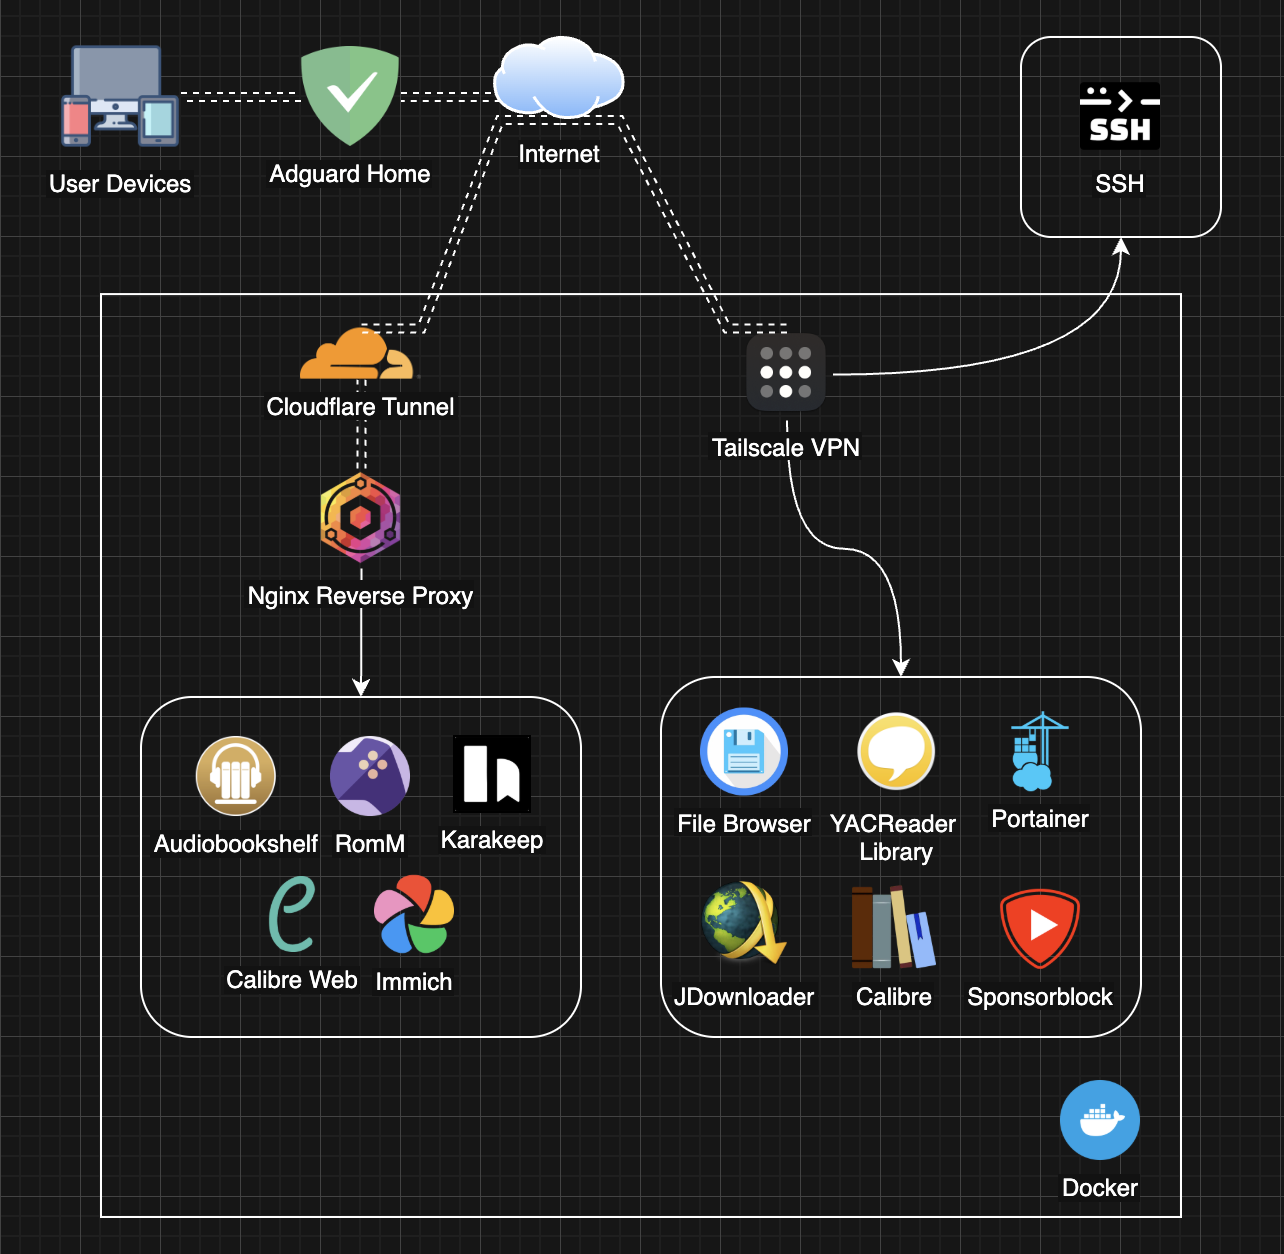
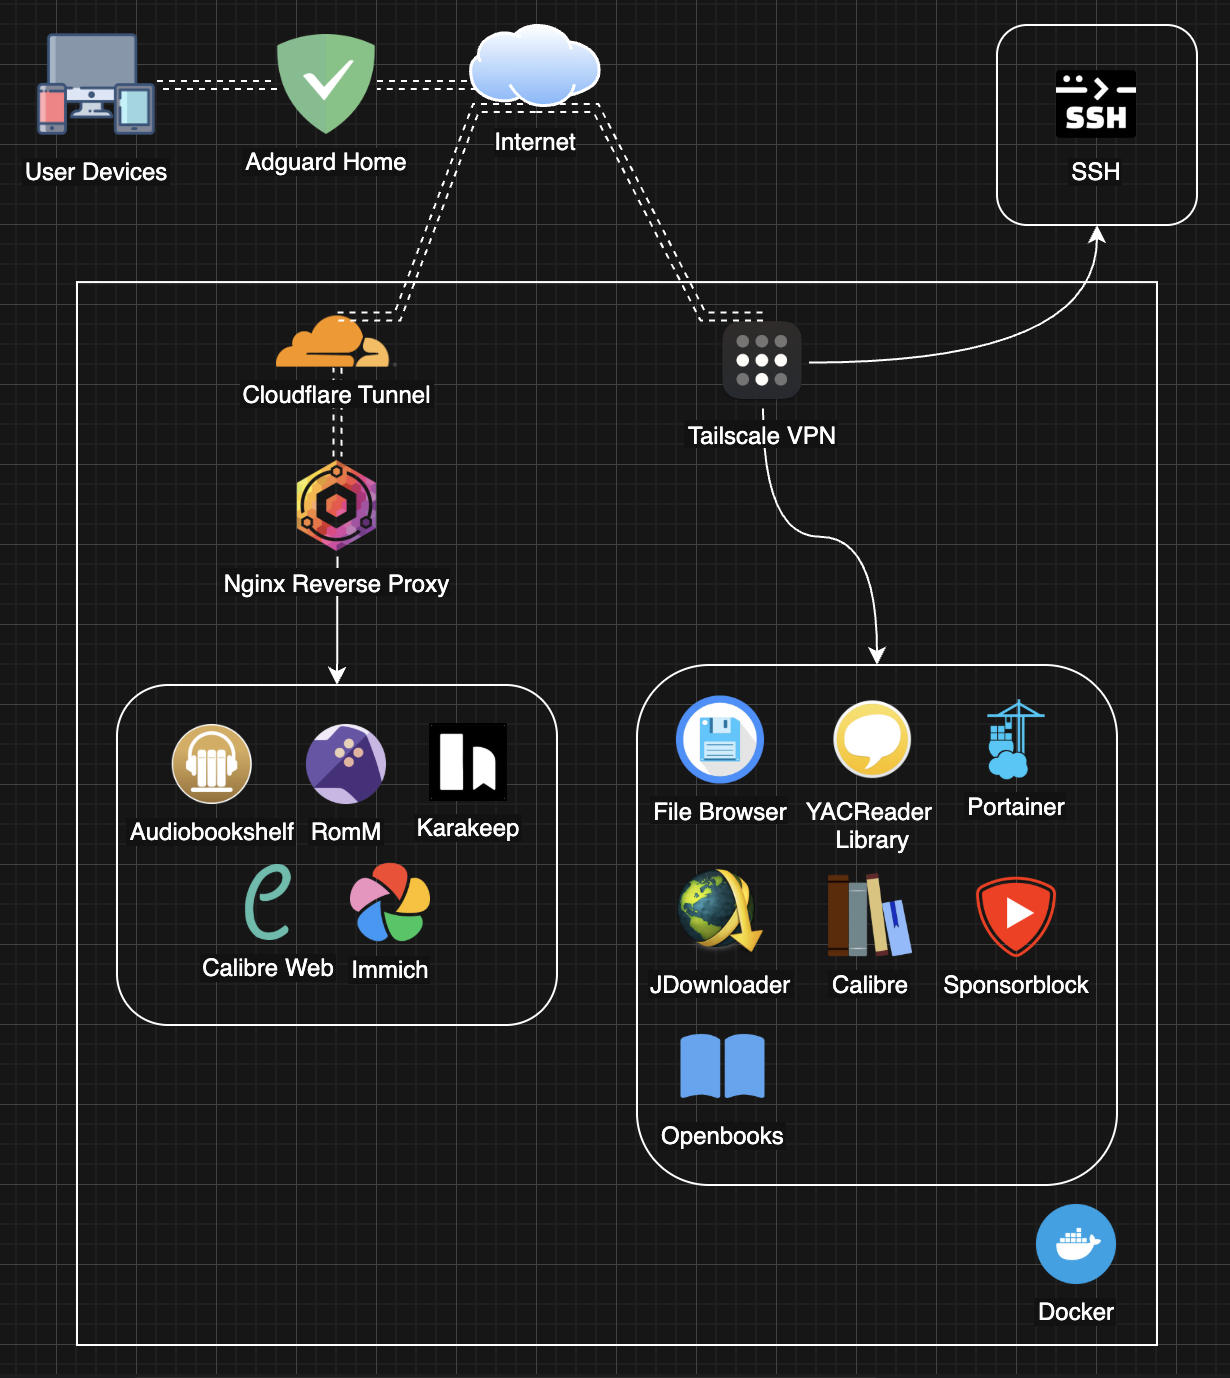
added openbooks readme, updated network diagram

diff --git a/media/books/openbooks/readme.md b/media/books/openbooks/readme.md
@@ -1,0 +1,5 @@
+# Openbooks
+
+[Homepage](https://evan-buss.github.io/openbooks/)
+
+Application that makes downloading from IRC easier
